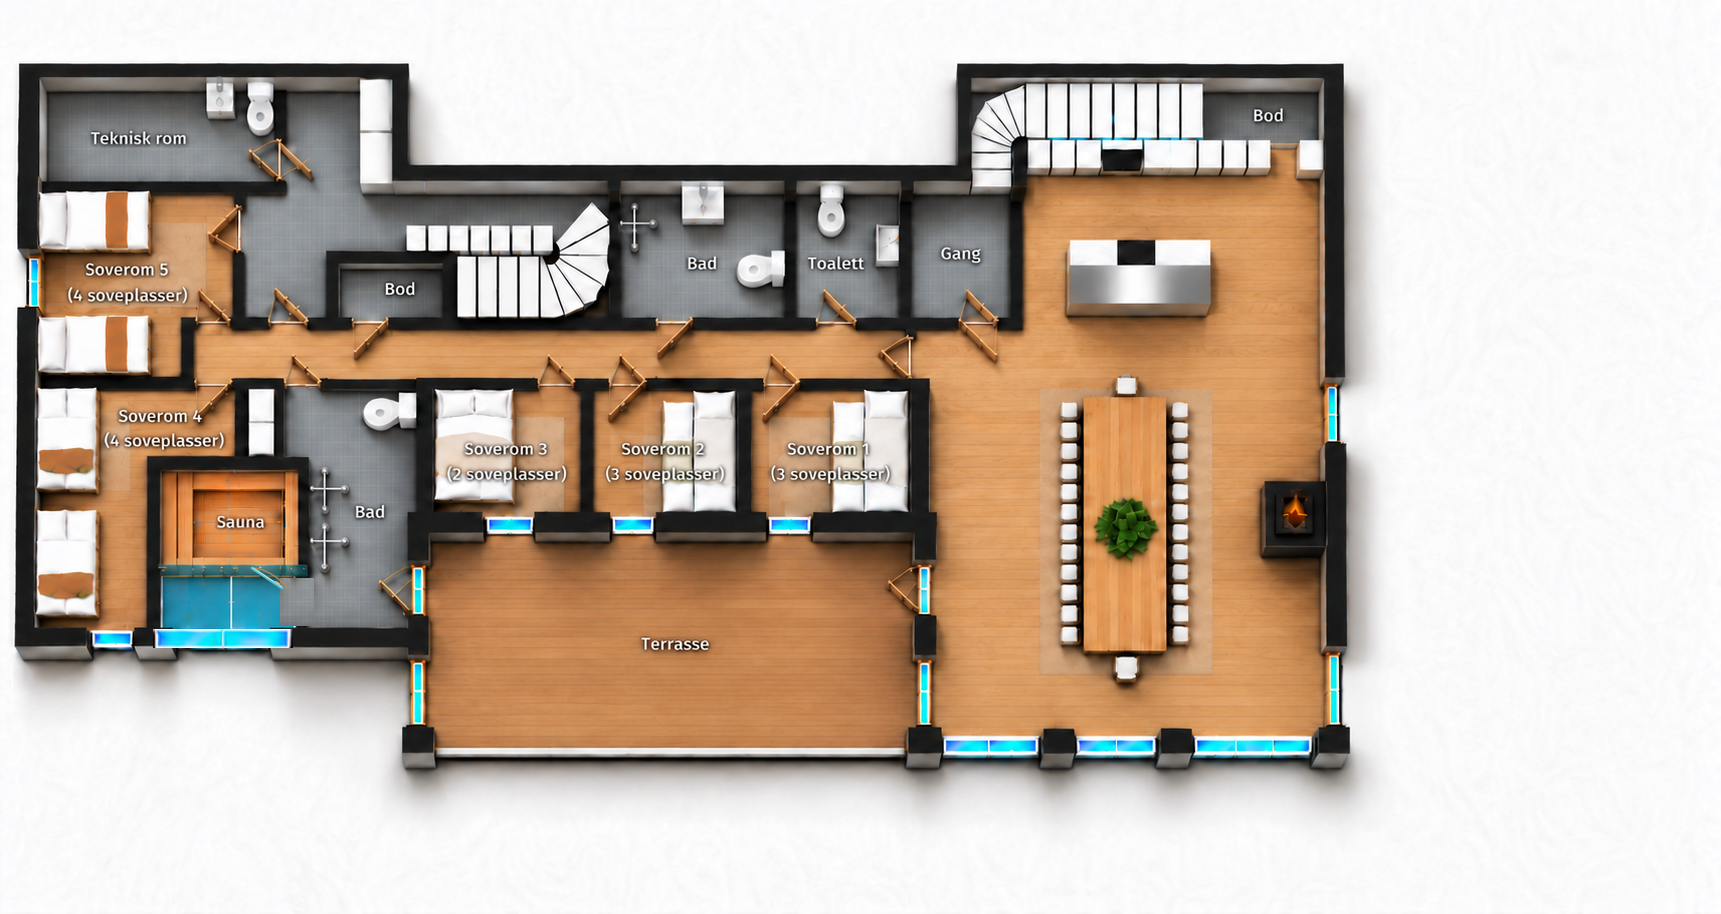
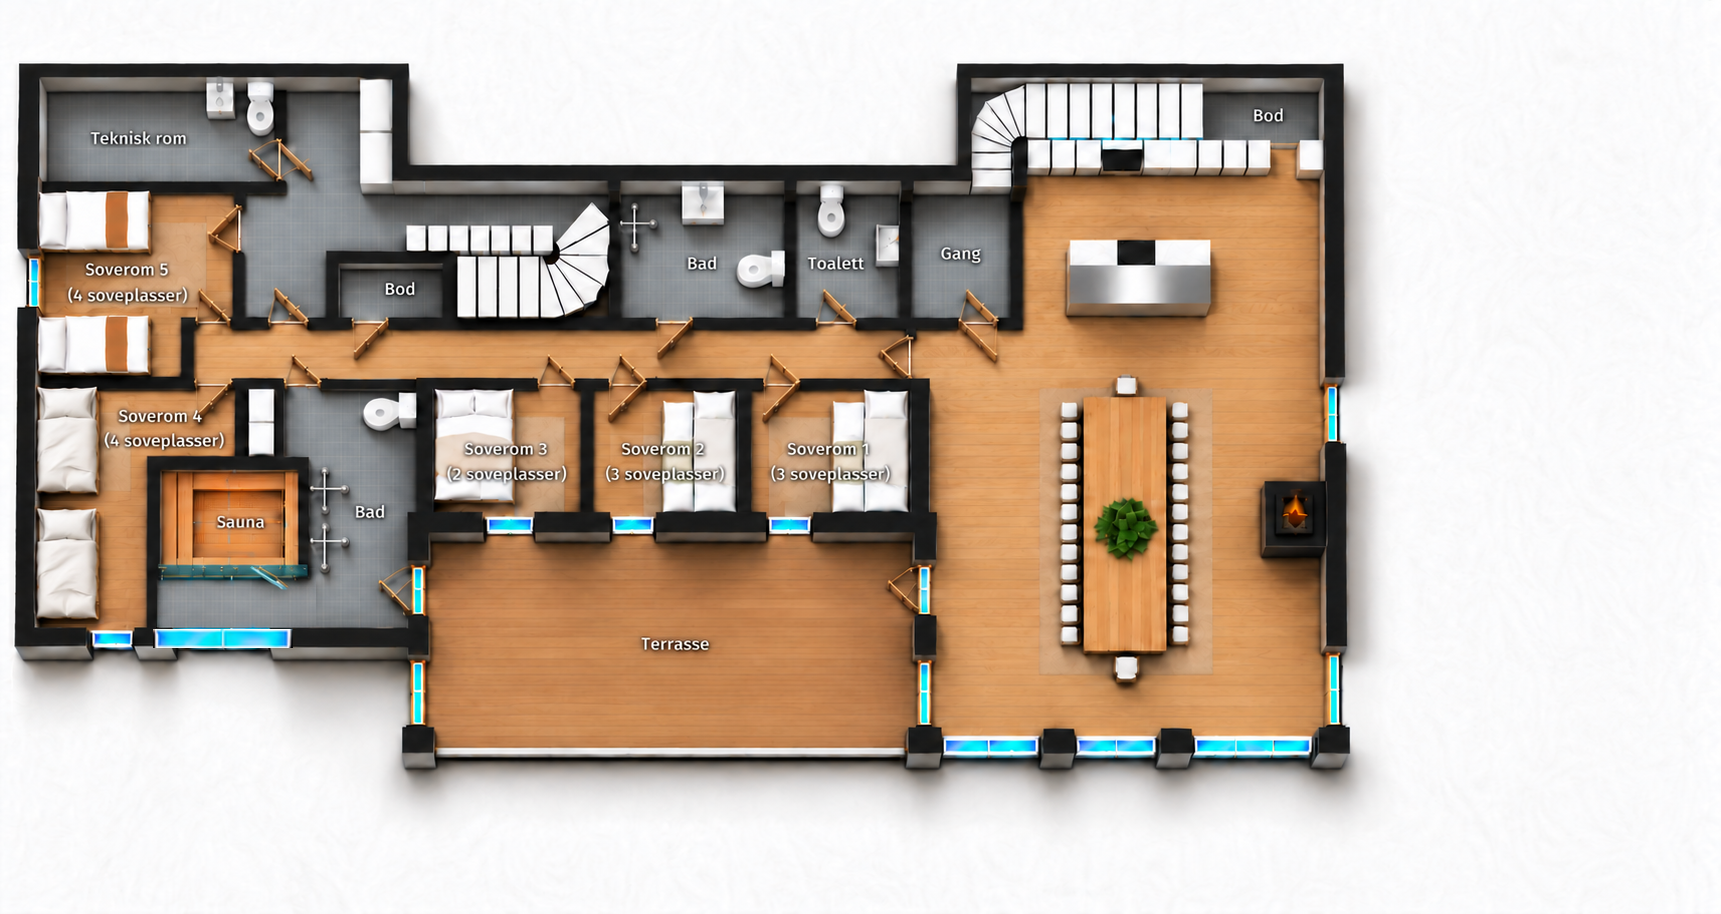
Refine lower-floor sauna tiles and bedding; reduce navigation text

Changed region(s): [[0.0, 0.4289, 0.0616, 0.7046], [0.0924, 0.6127, 0.1848, 0.7046]]

diff --git a/src/app/mobile.css b/src/app/mobile.css
@@ -6,7 +6,11 @@
   font-weight: 400;
   font-display: swap;
 }
-.retreat-header-pages nav { font-family: "Turu Crown Menu", "Cormorant Garamond", Georgia, serif; font-weight: 400; letter-spacing: normal; text-transform: none; }
+.retreat-header-pages nav { font-family: "Turu Crown Menu", "Cormorant Garamond", Georgia, serif; font-weight: 400; letter-spacing: normal; text-transform: none; color: #171e28; background: #f2f0eb; padding: .2rem .7rem; }
+.retreat-header-pages nav a, .retreat-header-pages nav a[aria-current="page"] { color: #171e28; }
+.retreat-header-pages nav a:hover { color: #79562f; }
+.retreat-header-pages nav a[aria-current="page"]::after { background: #79562f; }
+.retreat-home-page .retreat-header-pages { mix-blend-mode: normal; }
 .retreat-menu-toggle { display: none; }
 .retreat-floor-plan-drawing { width: 100%; }
 .retreat-floor-plan-open > .retreat-floor-plan-drawing { height: 100%; min-height: 0; }
@@ -25,7 +29,7 @@
 
 @media (min-width: 901px) {
   .retreat-header-pages { grid-template-columns: 180px minmax(0, 1fr) auto; }
-  .retreat-header-pages nav { font-size: clamp(1.85rem, 2.4vw, 2.4rem); line-height: 1.2; gap: clamp(1.1rem, 1.5vw, 1.6rem); }
+  .retreat-header-pages nav { font-size: clamp(1.125rem, 1.3vw, 1.3rem); line-height: 1.2; gap: clamp(1.1rem, 1.5vw, 1.6rem); }
   .retreat-header-pages nav a { display: flex; align-items: center; min-height: 40px; }
   .retreat-header-pages nav a[aria-current="page"]::after { bottom: 3px; }
 }
@@ -63,7 +67,7 @@
     display: none; position: absolute; top: 100%; left: 0; right: 0;
     width: 100%; max-height: calc(100dvh - 88px); margin: 0; padding: 1rem var(--mobile-gutter) 1.5rem;
     grid-template-columns: minmax(0, 1fr); gap: .25rem 1rem;
-    overflow: auto; background: #171e28; font-size: clamp(1.75rem, 5vw, 2.25rem);
+    overflow: auto; background: #f2f0eb; color: #171e28; font-size: clamp(1.25rem, 3.5vw, 1.5rem);
     border-top: 1px solid rgb(216 182 135 / 25%);
     box-shadow: 0 14px 24px rgb(9 14 20 / 18%);
   }

diff --git a/docs/floor-plans.md b/docs/floor-plans.md
@@ -1,5 +1,29 @@
 # Three floor plans
 
+## Sauna tiles and bedroom 4 single bedding, 10 November 2026
+
+Updated both `public/images/floor-plan-lower.png` and
+`public/images/floor-plan-lower-en.png` at their existing 1721 × 914 resolution.
+The sauna-front floor now continues the bathroom's gray tiles; the glass front,
+glass door and wider exterior window remain. Each of bedroom 4's two visible
+single beds has one white pillow and one white duvet.
+
+Built-in imagegen refined the bedding and tile rendering. Only the two bed
+rectangles and sauna-front rectangle were composited into the existing assets,
+so regenerated labels and incidental changes elsewhere were excluded. The main
+floor and loft assets were not edited. No global resize or lossy encoding was used.
+Generated sources: `exec-a4290232-67a4-4bb2-9e1f-88cdb19073c3.png` (NO) and
+`exec-32fa36fc-4e30-46e6-bda7-e1a82a49df90.png` (EN), under
+`C:/Users/kalaj/.codex/generated_images/01a1a234-33e5-7ce1-8382-8b7784bd34df/`.
+
+Final edit prompt specification for both languages: precise object edit of only
+the two single beds in bedroom 4 (one natural white pillow at the north head end,
+one continuous white single duvet, no orange stripes or artificial pasted seams)
+and the floor directly south of the sauna glass (continuous matching gray bathroom
+tiles, retaining the glass door and window). Preserve every other label, fixture,
+bed, room, kitchen cabinet gap, chair, wall, window, color and full native canvas.
+The Norwegian and English variants retain their respective original labels.
+
 ## Final owner refinements, 1 November 2026
 
 On the loft, the upper-left brown cushion in bedroom 9 became two white pillows; the upper brown cushion in bedroom 8 was removed to show oak parquet. The first loft outputs were `exec-27f65d4e-5273-43f0-be50-cc8f5bb8d106.png` (NO) and `exec-69536f0f-fda2-4224-b87c-d4110064f0e4.png` (EN). A second local correction removed the remaining brown cushion from the NO bedroom 8, giving final NO `exec-51fe8fdc-7416-4bf4-8d82-18510875dd58.png`. The final EN is `exec-69536f0f-fda2-4224-b87c-d4110064f0e4.png`.

diff --git a/README.md b/README.md
@@ -15,8 +15,9 @@ The shared footer lists both phone numbers and info@turucrown.no under Contact u
 with compact labelled phone and email links in both languages.
 The header keeps the original mountain/wordmark artwork and renders its two
 subtitles as larger, crisp live text for readability on phones and desktops.
-Desktop navigation uses larger Cormorant Garamond lettering and wraps within the
-header on smaller laptop screens, keeping every page link accessible. The logo
+Desktop navigation uses compact Cormorant Garamond lettering (18–21px), with dark
+text on a light panel, and wraps within the header on smaller laptop screens,
+keeping every page link accessible. The logo
 keeps “EXCLUSIVE MOUNTAIN LODGE” on one line and “TURUFJELL · NORWAY” below it.
 Menu typography matches the owner's Chalet 1551 reference: regular-weight
 Cormorant Garamond, natural letter case and normal tracking. Its official Latin
